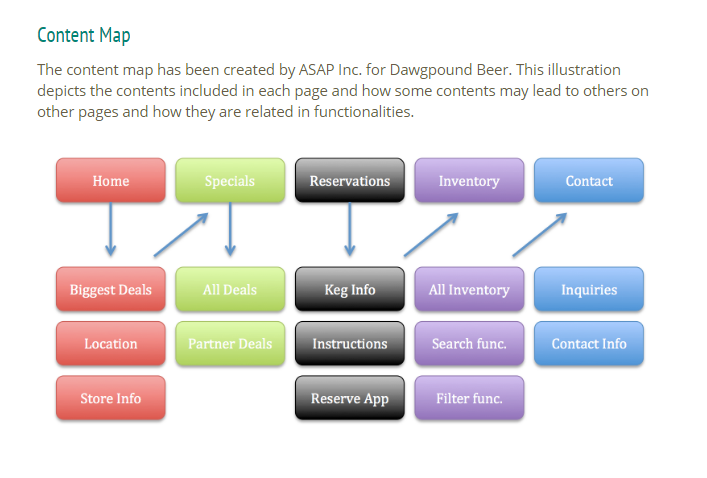
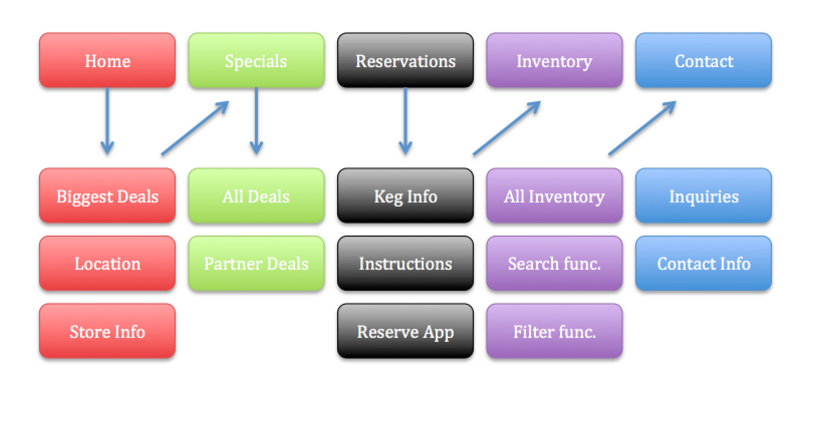
Updated Dawgpound

diff --git a/projects/dawgpound.html b/projects/dawgpound.html
@@ -52,7 +52,7 @@
 						<li><a href="welp.html" class="next" data-title="Next"></a></li>
 					</ul>							
 				</div><!-- end work_nav -->
-				<h1 class="title">DawgPound Beer // UNDER CONSTRUCTION</h1>
+				<h1 class="title">DawgPound Beer</h1>
 				<h3 class="subtitle">UX Design &amp; User Research</h3>
 			</div>		
 		</section><!-- end top -->
@@ -63,19 +63,22 @@
 				<h2>The Conundrum</h2>
 				<div class="container-fluid">
 					<div class="col-sm-6">
+						<p>Given free rein to choose any project of our choosing, our team of 6 were stumped. We scoured the internet for inspiration for our project to no avail. Finally, out of desperation, one person suggested we look at the website for Dawgpound Beer. It was the perfect project for my team to re-create the entire website because the original layout of the website is downright atrocious.</p>
+						<p>We began to discuss what sort of changes would be required for us to work on in the long run since this was to be a quarter long project. This ended up being very interesting to work on because at the time I was under the drinking age and had no knowledge of how the alcohol selling business worked. But I saw a lot of potential for this website so we forged on ahead.</p>
+						<p>Each stage of the project came with an in-depth written document as a part of the deliverables. In these, our team described the progress we made on the project, significant information that we wanted to share (such as feedback), details on how the current stage of the project was improving the website, and what we would be working on next.</p>
+						<h4>Check out the interactive Axure prototype <a href="http://hgky7h.axshare.com/age_checker.html" target="_blank">here.</a> Keep in mind that the prototype is best viewed at the fixed width due to the program limitations.</h4>
+						<br>
+					</div>
+					<div class="col-sm-6">
 						<figure class="figure">
 							<img src="../img/dawgpound/original.png" class="figure-img">
 	  						<figcaption class="figure-caption text-xs-left"><i>Original wesite layout</i></figcaption>
 						</figure>
-					</div>
-					<div class="col-sm-6">
-						<p>Given free rein to choose any project of our choosing, our team of 6 were stumped. We scoured the internet for inspiration for our project to no avail. Finally, out of desperation, one person suggested we look at the website for Dawgpound Beer. 
-						<br>
-					</div>
+					</div>					
 				</div>
 				<br>
 
-				<h1>Estblishing the Project</h1>
+				<h1>Stage 1: Estblishing the Project</h1>
 				<h2>Defining Objectives &amp; Creating Personas</h2>
 				<div class="container-fluid">
 					<div class="col-sm-5">
@@ -84,87 +87,70 @@
 							<figcaption class="figure-caption text-xs-left"><i>Overview of personas created</i></figcaption>
 					</div>
 					<div class="col-sm-7">
-						<p>In order for my team to get over the fear of brainstorming <i>bad ideas</i>, my professor assigned us the task of individually producing 40 ideas. I had high hopes of conceiving THE idea within those 40. Afterall, 40 ideas is a lot (so I thought), at least one of them had to be good, right? 40 ideas later, I still felt unsure of myself. Some ideas I knew were really bad, and the rest I deemed merely bad.</p>
-
-						<p>After discussing with my team, we knew that we wanted to stay away from physical mediums (such as posters, fliers, or help booths). Our main focus was finding a medium that allowed a great deal of flexibility since we wanted to encompass numerous details we felt were important. Some of the original ideas we had included a way for officers of a club to communicate and organize events. We also played around with the idea of incorporating a method for members to have more effect and power on club meetings and events, such as time and location. Understanding the basis of our idea, we narrowed down three ideas (that we deemed had potential) from our combined total of over 100.</p>
+						<p>The first stage of the project was to define the objectives of our project. What did we want to accomplish? We viewed the project from multiple angles, from what the customers would want out of the website to the business aspect of it. The two major things were to establish a brand presence as well as work on the improving the user experience when interacting with the website. The first step of achieving these goals was to establish personas.</p>
+						<p>It was important to create both internal (workers of Dawgpound Beer) and external (customers) personas. We envisioned the interactions they would have with the website as well as what their priorities were. This was the baseline for how to proceed with the project.</p>
 					</div>
 				</div>
 
-				<h1>Content Strategy</h1>
-				<div class="container-fluid">
-					<div class="col-sm-12">
-						<p>After narrowing it down to three ideas, each of my team members took one idea and designed a paper prototype. I was tasked with creating a prototype for a Facebook application. This was one of the three ideas because we reasoned that many students already used Facebook to keep track of events, therefore providing the ability to also track clubs on the same platform was ideal. The goal of my prototype was to help students keep the events more organized without being cumbersome to use. We wanted to avoid creating something that students will use once before forgetting about its existence.</p>
-						<p>For our user testing, we asked fellow classmates to navigate the three prototypes we had made (a Facebook add-on, a mobile application for the RSO, and an addition to the current MyUW site). I conducted my user testing with fellow students in class. I introduced the idea for my team's project to the user as well as the platform I would be presenting them (a Facebook application). Afterwards, I had a series of tasks I had them complete. These tasks included navigating between screens and identifying what certain icons meant.It became apparent that there were navigation issues. One of the most important things I came to understand is how I, as a designer, created a prototype that I could navigate flawlessly. Attempting to help users navigate prototypes made by my teammates proved difficult since I could not follow the line of thought they had when they created their prototype. I envisioned and tried to create my prototype to be as easy and intuitive to navigate as possible but in reality, was not the case.</p>
-						<p>After each person in our team conducted our user tests, we reconvened to take stock of our findings. And one thing was evident: we still had a lot of work to do. While the theory behind each prototype seemed sound, the reality left something to be desired. </p>
-					</div>
-					<div class="col-sm-1"></div>
-					<div class="col-sm-5">
-						<figure class="figure">
-							<img src="../img/myclubs/script.jpg" class="figure-img">
-							<figcaption class="figure-caption text-xs-left"><i>Sample from a script used in one of the user testing phases</i></figcaption>
-						</figure>
-					</div>
-					<div class="col-sm-5">
-						<figure class="figure">
-							<img src="../img/myclubs/paperproto.png" class="figure-img">
-							<figcaption class="figure-caption text-xs-left"><i>Facebook application paper prototype</i></figcaption>
-						</figure>
-					</div>
-				</div>
-
-				<h1>Sitemaps &amp; Wireframes</h1>
-				<h2>Applying the Information</h2>
-				<div class="container-fluid">
-					<div class="col-sm-8">
-						<p>After our intensive (and eye-opening) user testing, it was finally time to decide on what we wanted to focus on for the final design specification. We knew this was going to be an imperative decision because we needed to stick with it for the rest of the quarter. Deliberation began and none of us felt confident in the future prospects of our current prototypes. Unable to come up with a solid idea, we were stuck. Faced with a conundrum, we took a step back and approached our problem from a differently angle. We discussed what went wrong with our initial ideas, and focused on what went well.</p>
-						<p>Understanding that trying to target as much of the student population as possible was holding us back because we were being overambitious helped facilitate us towards the idea we would use. We used this revelation to evaluate a solution in a new light. A new consensus was achieved: less is more. We scrapped all three of our ideas and thought smaller. Literally. Well, at least in screen size: my group decided to design a mobile application.</p>
-						<p>The major ideas that we wanted to keep was the idea of allowing Facebook integration. We felt this was important because so many clubs on campus currently have Facebook pages and post events on Facebook. Narrowing our scope, we determined that focusing solely on events was the path to take. The mobile platform was chosen because we believed it would be most convenient considering the fact that almost all of the student population owns a smartphone. We had to leave behind ideas we thought would be useful to incorporate, but it made our overall concept more refined and feel more sophisticated.</p>
-					</div>
-					<div class="col-sm-4">
-						<figure class="figure">
-							<img src="../img/myclubs/phase1.png" class="figure-img">
-							<figcaption class="figure-caption text-xs-right"><i>Intial concept of the mobile application</i></figcaption>
-						</figure>
-					</div>
-				</div>
-
-				<h1>Prototyping &amp; Testing</h1>
-				<h2>Some things didn't work, and that's okay</h2>
-				<div class="container-fluid">
-					<div class="col-sm-12">
-						<p>Our final design was a very streamlined version of our initial concept. It was minimalistic, but not the point where it confused users and it was simplistic. It achieved our goal in what I believe to be a very effective method. It allows for students to browse clubs and events. A feature is implemented to track clubs, but also allows for small user flexibility. I believe that it was the small, refined details that were key to our design.</p>
-						<p>A major epiphany that moved the project forward was letting go of the idea of a feature for club officers to communicate. Acknowledge that some good ideas hindered great ideas was not easy to learn, but the lesson was an important one.</p>
-					</div>
-					<div class="col-sm-12">
-						<figure class="figure">
-							<img src="../img/myclubs/final.png" class="figure-img">
-							<figcaption class="figure-caption text-xs-right"><i>Screenshots of the final mockup</i></figcaption>
-						</figure>
-					</div>
-				</div>
-
-				<h1>Final Product</h1>
-				<h2>Refinement</h2>
-				<div class="container-fluid">
-					<div class="col-sm-12">
-						<p>Our final design was a very streamlined version of our initial concept. It was minimalistic, but not the point where it confused users and it was simplistic. It achieved our goal in what I believe to be a very effective method. It allows for students to browse clubs and events. A feature is implemented to track clubs, but also allows for small user flexibility. I believe that it was the small, refined details that were key to our design.</p>
-						<p>A major epiphany that moved the project forward was letting go of the idea of a feature for club officers to communicate. Acknowledge that some good ideas hindered great ideas was not easy to learn, but the lesson was an important one.</p>
-					</div>
-					<div class="col-sm-12">
-						<figure class="figure">
-							<img src="../img/myclubs/final.png" class="figure-img">
-							<figcaption class="figure-caption text-xs-right"><i>Screenshots of the final mockup</i></figcaption>
-						</figure>
-					</div>
-				</div>
-
-				<h1>Conclusion</h1>
-				<h2>A Reflection on the 10 Weeks</h2>
+				<h1>Stage 2: Content Strategy</h1>
+				<h3>Forming the Basics</h3>
 				<div class="container-fluid">
 					<div class="col-sm-6">
-						<p>I learned a great deal more in this class than I would have initially thought. It was surprising how much I was able to learn about the design process in the 10 weeks we had. And I realized I still have a great deal more to learn. Our initial concept seemed pretty easy at the beginning: designing a product that could help the student population facilitate and maintain events with reminders.</p>
-						<p>Although many changes were made from our initial conceptions, we were able to create a design that fulfilled our ultimate goal. I feel as though my group functioned very well as a whole. There were small bumps along our journey, but they helped shaped our project and understanding of the design process. Looking back, I may have invested more time in additional user testing because I realized how invaluable feedback from the target population is. It felt tedious to conduct all the tests we did throughout the quarter, but they were instrumentally helpful in shaping the final design. Looking at our final, streamlined design, I felt a sense of overwhelming pride in what our group had accomplished in just 10 weeks.</p>
-						<p>The skills I achieved were not only academic, but social. Group work was never something I had looked forward to in high school, but participating in a team of equally eager workers was astronomically fun. I feel as though I have learned a lot as a designer, but accept that I still have innumerable amount of things to learn, which I hope to do so in the future.</p>
+						<p>After the personas had been finalized, we moved onto content strategy. The content strategy was designed to informs goals, processes, and systems for content creation and governance in order to reach new audiences and build stronger engagement opportunities with current customers. For this project we projected two outcomes during the content strategy stage: (1) Increased efficiency will create higher quality, more engaging content that attracts new audiences and supports brand advocacy among current subscribers, and (2) Greater organization of content will create measurable tracks for brand awareness, visibility, and engagement opportunities.</p>
+						<p>Part of the content strategy was the content map which was an illustration that depicts the contents included in each page and how some contents may lead to others on other pages and how they are related in functionalities. This was really the first glimpse we had on how the new website would function.</p>
+						<p>Other parts of the content strategy included a quantitative audit (page inventory), qualitative audit (content assessment), templates for the web content, and an editorial calendar as a guide for the schedule of the project.</p>
+					</div>
+					<div class="col-sm-6">
+						<figure class="figure">
+							<img src="../img/dawgpound/contentmap.png" class="figure-img">
+							<figcaption class="figure-caption text-xs-left"><i>Content map which shows the flow of the website</i></figcaption>
+						</figure>
+					</div>
+				</div>
+
+				<h1>Stage 3 &amp; 4: Sitemap &amp; Wireframes</h1>
+				<div class="container-fluid">
+					<div class="col-sm-6">
+						<figure class="figure">
+							<img src="../img/dawgpound/sitemap.png" class="figure-img">
+							<figcaption class="figure-caption text-xs-left"><i>Sitemap</i></figcaption>
+						</figure>
+					</div>
+					<div class="col-sm-6">
+						<figure class="figure">
+							<img src="../img/dawgpound/wireframe.png" class="figure-img">
+							<figcaption class="figure-caption text-xs-left"><i>Wireframe of the homescreen</i></figcaption>
+						</figure>
+						<br>
+					</div>
+					<div class="col-sm-8">
+						<p>For the next stage of the project, it was time to create the sitemap and wireframes. This was the exciting part of the project because all of the initial planning was finally put together for the first look at the re-design. The new design featured an online keg reservation process as well as a more robust browsing experience for customers to view Dawgpound's inventory.</p>
+						<p>The first iteration of the design relied heavily on conventions that are popular among websites. They were implemented after viewing several popular brewing company websites. Our team complied a list of what we felt were the best features of each and put them into our design. These included the style of the navigation bar and the browsing sections. </p>
+					</div>
+				</div>
+
+				<h1>Stage 5 &amp; 6: Iteration through User Testing</h1>
+				<div class="container-fluid">
+					<div class="col-sm-12">
+						<p>It was time for iteration for our design where we continually went back to the design to point out areas that could be improved. We received feedback through focus groups, group discussions, and scripted user testing. We began to focus more heavily on the aesthetics of the website which included color scheme, font, size, and placement. For a more realistic prototype, real data and images were used to mimic a real website. The continuous feedback we received helped tremendously with finding improvements. For the final iteration, a darker theme was chosen since the white was harsh on the eyes. But we still wanted to keep the overall appearance both clean while emphasizing the tie to the University of Washington (the purple and gold/yellow). </p>
+						<p>In order to provide the best possible user experience, we integrated the prototype with interactions. The button will provide user feedback when clicked (such as the reservation page appearing when the 'reserve' button is clicked). </p>
+						<p>Although we invested a lot of time in putting availability icons in the early stages of the project, testing ultimately told us that they confused the users more than they helped. From this I learned that although visualization does help get information across better in many cases, sometimes it causes more confusion instead. </p>
+					</div>
+					<div class="col-sm-1"></div>
+					<div class="col-sm-10">
+						<figure class="figure">
+							<img src="../img/dawgpound/iterations.png" class="figure-img">
+							<figcaption class="figure-caption text-xs-left"><i>Screen captures of the evolution of the home screen through iterations</i></figcaption>
+						</figure>
+					</div>
+				</div>
+
+				<h1>Reflection</h1>
+				<div class="container-fluid">
+					<div class="col-sm-6">
+						<p>I am very proud of the work that I put into this project and how well the final project turned out in the end. Communication in our team was lackluster at times and I will take it as a learning experience to improve on team projects in the future. It was interesting to work on a website re-design in an topic I was unfamiliar with but the challenge was fun.</p>
+						<p>It would have been interesting if we had the opportunity to receive feedback from the owners of the Dawgpound Beer store. Ultimately, I believe that we achieved our goals of creating a better customer experience on the website and also establishing a brand presence.</p>
+						<h4>Don't forget to take a look at the final Axure prototype <a href="http://hgky7h.axshare.com/age_checker.html">here!</a></h4>
 					</div>
 				</div>
 			</div>
